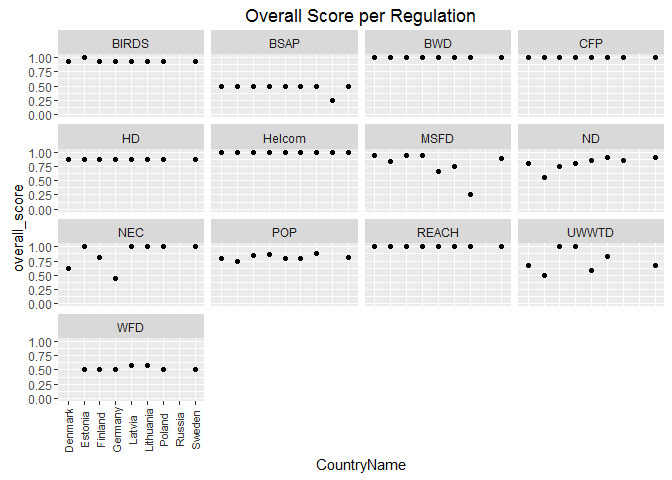
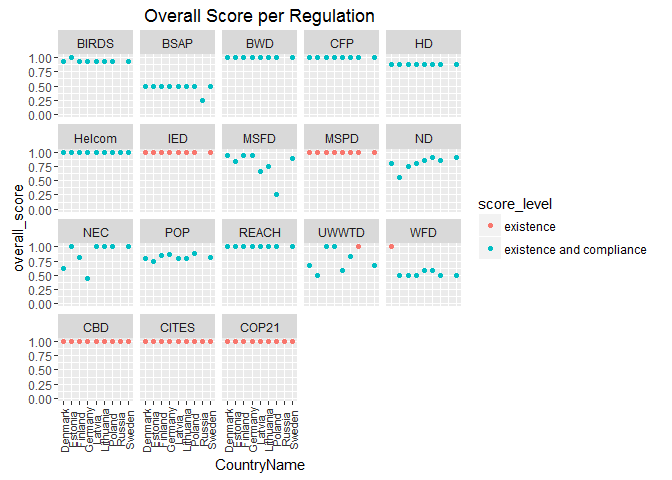
preliminary scoring of resilience goal specifc regs

diff --git a/baltic2015/prep/resilience/resilience_prep.md b/baltic2015/prep/resilience/resilience_prep.md
@@ -94,9 +94,9 @@ Three international treaties are assessed for all BHI countries for *existence* 
 [Convention on International Trade in Endangered Species of Wild Fauna and Flora (CITES)](https://www.cites.org)
 [Paris Climate Agreement (COP21)](https://treaties.un.org/pages/ViewDetails.aspx?src=TREATY&mtdsg_no=XXVII-7-d&chapter=27&lang=en)
 
-Two Baltic Region agreements will be assessed for *existence* and *comliance* for all countries. These are: Baltic Sea Action Plan (BSAP); Helsinki Convention (HELCOM).
+Two Baltic Region agreements will be assessed for *existence* and *compliance* for all countries. These are: Baltic Sea Action Plan (BSAP); Helsinki Convention (HELCOM).
 
-13 EU directives will be assessed for *existence* and *comliance* for BHI countries that are EU member states. These are: Water Framework Directive (WFD), Marine Spatial Planning Directive (MSPD), Marine Strategy Framework Directive (MSFD), Habitat Directive (HD), Common Fisheries Policy (CFP), National Emmissions Ceilings (NEC), Industrial Emissions Directive (IED), Urban Waste Water Treatment Directive (UWWTD), Bathing Water Directive (BWD), Conservation of Wild Birds (BIRDS), Registration, Evaluation, Authorisation and Restriction of Chemicals (REACH), Peristent Organic Pollutants (POP), Nitrates Directive (ND).
+13 EU directives will be assessed for *existence* and *compliance* for BHI countries that are EU member states. These are: Water Framework Directive (WFD), Marine Spatial Planning Directive (MSPD), Marine Strategy Framework Directive (MSFD), Habitat Directive (HD), Common Fisheries Policy (CFP), National Emmissions Ceilings (NEC), Industrial Emissions Directive (IED), Urban Waste Water Treatment Directive (UWWTD), Bathing Water Directive (BWD), Conservation of Wild Birds (BIRDS), Registration, Evaluation, Authorisation and Restriction of Chemicals (REACH), Peristent Organic Pollutants (POP), Nitrates Directive (ND).
 
 ### 1.2.2 Scoring
 
@@ -116,13 +116,13 @@ Country\_compliance\_directive = Mean (compliance score)\_all\_compliance\_compo
 
 #### 1.2.2.3 Total regulation score
 
-Score\_Existence + Country\_compliance\_directive / (Possible\_Existence + Possible\_Compliance) - *Needs to be rescaled between 0-1?*
+Score\_Existence + Country\_compliance\_directive / (Possible\_Existence + Possible\_Compliance)
 
 Compliance is weighted more heavily than existence when both are scored.
 
-### 1.2.3 Goal Weighting
+### 1.2.3 Goal Weighting & Mapping
 
-Each regulation will be weighted (1 or 2) for each goal to which is it applied.
+Each regulation will be weighted (1 or 2) for each goal to which is it applied. Regulations are mapped to all the goals to which they directly influence/combat pressures.
 
 ### 1.2.4 Resilience Data Layer
 
@@ -285,72 +285,134 @@ ggplot(goal_spec) +
 
 ![](resilience_prep_files/figure-markdown_github/plot%20raw%20score-2.png)<!-- -->
 
-#### 1.2.5.5 Exclude Compliance Components that have NA
-
-If a component has NA for assessment, have to exclude. This will lead to differences in the number of components scored for different countries in the same directive. Depends on case, but could be that country did not assess or report so then review of report does not assess.
+#### 1.2.5.5 Separate Existance and Compliance
 
 ``` r
-goal_spec2 = goal_spec %>%
-            filter(!is.na(compli_numeric))
+goal_spec_exist = goal_spec %>%
+                  select(DirectiveAbbreviation:ExistenceNotes, exist_numeric)
 
-dim(goal_spec);dim(goal_spec2)
+goal_spec_compli = goal_spec %>%
+                  select(DirectiveAbbreviation:CountryName, IsCountryComplianceAssessed:Comments, compli_numeric)
 ```
 
-    ## [1] 818  13
+#### 1.2.5.6 How many compliance components assessed?
 
-    ## [1] 590  13
+Some directives have no components assessed. Others have a subset that could not be assessed - these might differ by country. Minimal differences by country. WDF not assessed for Denmark. Germany assessed for one more POP component. Poland asssesse for one fewer UWWTD component.
+**Gray bars are components not assessed**
 
 ``` r
-## count to see if the same directive has a different number of components assessed for each country
-check_compli_n = goal_spec2 %>%
-                 select(DirectiveAbbreviation,CountryName,compli_numeric) %>%
-                 group_by(DirectiveAbbreviation,CountryName)%>% 
-                 count(DirectiveAbbreviation,CountryName)
+goal_spec_compli_n1 = goal_spec_compli %>%
+                      count(DirectiveAbbreviation, CountryName,compli_numeric)
 
-ggplot(check_compli_n) +
-  geom_point(aes(CountryName,n))+
+ggplot(goal_spec_compli, aes(CountryName,fill=as.character(compli_numeric)))+ 
+  geom_bar(position="stack")+
   facet_wrap(~DirectiveAbbreviation)+
+  ylab("Count of Compliance Componenets")+
   theme(axis.text.x = element_text(colour="grey20", size=8, angle=90, 
                                     hjust=.5, vjust=.5, face = "plain"))+
-  ggtitle("Do Compliance Components differ by Country")
+  ggtitle("Compliance Components Assessed by Country & Directive")
 ```
 
-![](resilience_prep_files/figure-markdown_github/exclude%20NA%20compliance-1.png)<!-- -->
+![](resilience_prep_files/figure-markdown_github/unnamed-chunk-1-1.png)<!-- -->
 
-#### 1.2.5.5 Mean Compliance score
+#### 1.2.5.7 Mean Compliance score
 
 ``` r
-goal_spec3 = goal_spec2 %>%
-            select(DirectiveAbbreviation,CountryName,exist_numeric,compli_numeric) %>%
-            group_by(DirectiveAbbreviation,CountryName)%>%          
-            transmute(exist_mean = mean(exist_numeric),
-                      compli_mean = mean(compli_numeric))
-                      
-goal_compli_n = goal_spec2 %>%
+## calculate the mean value for all scored compliance by directive and country
+goal_spec_compli_mean = goal_spec_compli%>%
             select(DirectiveAbbreviation,CountryName,compli_numeric) %>%
-            filter(!is.na(compli_numeric)) %>% ## remove NAs
-            group_by(DirectiveAbbreviation,CountryName)%>%  count(DirectiveAbbreviation,CountryName) ## number of compliance components assessed
+            group_by(DirectiveAbbreviation,CountryName)%>%          
+            summarise(compli_mean = mean(compli_numeric, na.rm=TRUE)) %>%
+            ungroup()
 
+                      
+## get the number of components assessed
+goal_spec_compli_n2 = goal_spec_compli%>%
+                      select(DirectiveAbbreviation,CountryName,compli_numeric) %>%
+                      filter(!is.na(compli_numeric))%>%
+                      count(DirectiveAbbreviation,CountryName)
 
-goal_spec3 = goal_spec3 %>%
-        left_join(., goal_compli_n, by=c("DirectiveAbbreviation", "CountryName")) ## join n_obs
+## merge the mean score and the count of components
+goal_spec_compli_mean = goal_spec_compli_mean %>%
+                        left_join(., goal_spec_compli_n2, 
+                                  by= c("DirectiveAbbreviation","CountryName"))
+               
+
+dim(goal_spec_compli_mean)
 ```
 
-#### 1.2.5.6 Overall score
+    ## [1] 149   4
+
+#### 1.2.5.8 Plot Mean Compliance score
+
+**Max compliance score can be 3**
+
+``` r
+ggplot(goal_spec_compli_mean)+
+  geom_point(aes(CountryName,compli_mean,size=n))+
+  facet_wrap(~DirectiveAbbreviation)+
+  ylim(0,4)+
+  ylab("Mean compliance score")+
+  theme(axis.text.x = element_text(colour="grey20", size=8, angle=90, 
+                                    hjust=.5, vjust=.5, face = "plain"))+
+  ggtitle("Mean Compliance Score")
+```
+
+    ## Warning: Removed 45 rows containing missing values (geom_point).
+
+![](resilience_prep_files/figure-markdown_github/plot%20mean%20compliance%20score-1.png)<!-- -->
+
+#### 1.2.5.9 Existence score
+
+``` r
+dim(goal_spec_exist)#818   7
+```
+
+    ## [1] 818   7
+
+``` r
+goal_spec_exist = goal_spec_exist %>%
+                  select(DirectiveAbbreviation,CountryName,exist_numeric,ExistenceLevel) %>%
+                  distinct(.)
+                  
+dim(goal_spec_exist)#149   4
+```
+
+    ## [1] 149   4
+
+``` r
+head(goal_spec_exist)
+```
+
+    ##   DirectiveAbbreviation CountryName exist_numeric ExistenceLevel
+    ## 1                   WFD     Denmark             1         EU_Law
+    ## 2                   WFD     Estonia             1         EU_Law
+    ## 3                   WFD     Finland             1         EU_Law
+    ## 4                   WFD     Germany             1         EU_Law
+    ## 5                   WFD      Latvia             1         EU_Law
+    ## 6                   WFD   Lithuania             1         EU_Law
+
+#### 1.2.5.10 Overall score
 
 Max score is 4 (1 for existence, 3 for compliance)
 
 ``` r
-goal_spec4 = goal_spec3 %>%
-              mutate(max_score = 4,
-                     overall_score = (exist_mean + compli_mean)/max_score)
+## merge existence and compliance
+goal_spec_overall = full_join(goal_spec_exist, goal_spec_compli_mean,
+                              by=c("DirectiveAbbreviation","CountryName")) %>%
+                    mutate(compli_mean2 = ifelse(is.na(compli_mean),0,compli_mean)) %>% ## make a column where NA are zero so that it does not screw up the total score
+                    mutate(total = exist_numeric + compli_mean2, 
+                           max_score = ifelse(!is.na(compli_mean),4,1),
+                           overall_score = total/max_score) %>% ## if compli_mean is not NA, the max total score is 4; if it is NA, then only existence assessend and max is 1
+                    mutate(score_level = ifelse(max_score == 1, "existence", "existence and compliance")) %>%
+  select(DirectiveAbbreviation, CountryName,overall_score, score_level)
 ```
 
-#### 1.2.5.7 Plot Overall score
+#### 1.2.5.11 Plot Overall score
 
 ``` r
-ggplot(goal_spec4)+
-  geom_point(aes(CountryName,overall_score))+
+ggplot(goal_spec_overall)+
+  geom_point(aes(CountryName,overall_score, colour=score_level))+
   facet_wrap(~DirectiveAbbreviation)+
   ylim(0,1)+
    theme(axis.text.x = element_text(colour="grey20", size=8, angle=90, 
@@ -358,7 +420,14 @@ ggplot(goal_spec4)+
   ggtitle("Overall Score per Regulation")
 ```
 
-![](resilience_prep_files/figure-markdown_github/plot%20overall%20score-1.png)<!-- --> \#\# TO DO Need to rethink exclucding compli with NA because then do not have all directives at the end!
+![](resilience_prep_files/figure-markdown_github/plot%20overall%20score-1.png)<!-- -->
+
+TO DO
+-----
+
+1.  Weight each regulation for each goal
+2.  Map each regulation to goals
+3.  Prepare final data layers
 
 2. Social
 ---------
